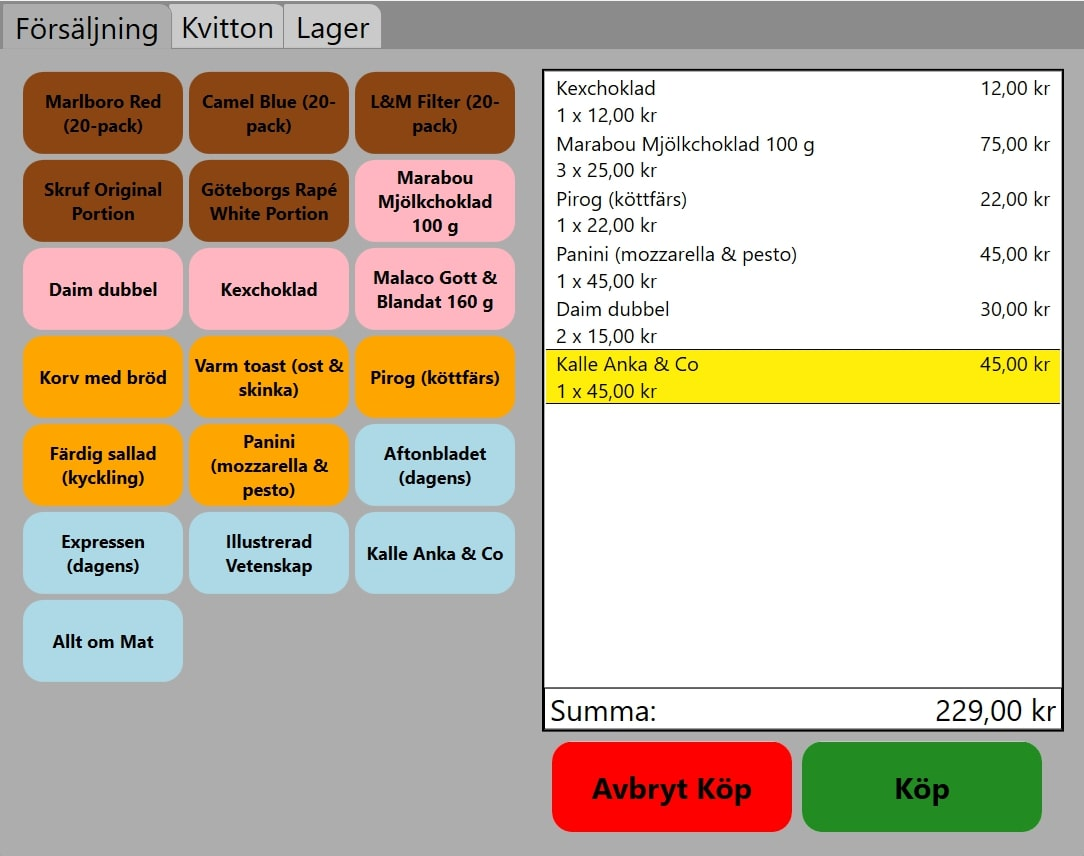
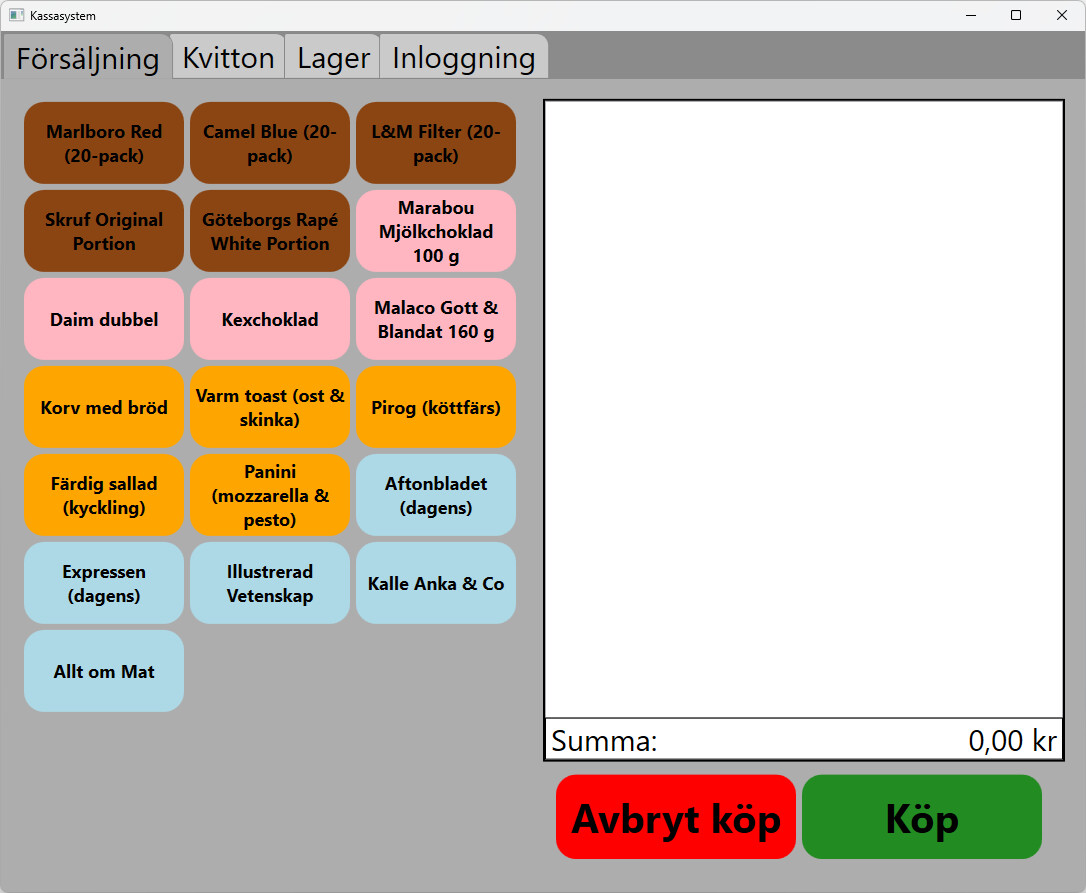
Add NTIPOS-Backend as a project and updated NTIPOS accordingly

Changed region(s): [[0.0, 0.0, 1.0, 0.7897], [0.4871, 0.7897, 0.9742, 0.972]]

diff --git a/_source/_includes/footer.html b/_source/_includes/footer.html
@@ -1,5 +1,5 @@
         <footer>
-            © 2025 Oliver Sköldberg
+            © 2026 Oliver Sköldberg
             <div class="links">
                 <a href="https://github.com/DaPakoREE" target="_blank">
                     {{ site.data.svgs.other.GitHub.svg }}

diff --git a/_source/theme_switch.js b/_source/theme_switch.js
@@ -15,8 +15,6 @@ const selfImages = document.querySelectorAll("#title-card img")
 let timesSwitched = 0
 let easterEggThreshold = Math.floor(Math.random() * 30) + 20
 
-console.log(easterEggThreshold)
-
 document.addEventListener("DOMContentLoaded", () => {
     SVGS = document.querySelectorAll(".svg")
     responsiveSVGS = Array.from(SVGS).filter(getResponsiveSVGS);